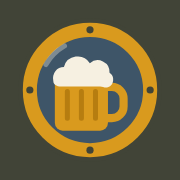
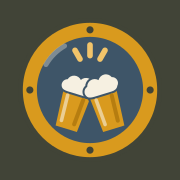
Nyt mærke: to glas, der skåler, i koøjet
Koøjet (olive skrog, messingring, havneblåt glas) bevares; ølkruset er
erstattet af to pintglas, der klinker, med skum og gnister (D-162).
Samme tegning i LogoMark, icon.svg og apple-icon.png.

diff --git a/src/components/brand/logo.tsx b/src/components/brand/logo.tsx
@@ -1,7 +1,7 @@
 import { cn } from "@/lib/utils";
 
 /*
- * Ølklubbens mærke: et koøje (porthole) med en ølkrus bag glasset.
+ * Ølklubbens mærke: et koøje (porthole) med to ølglas, der skåler, bag glasset.
  * Maritimt krydderi, ikke pirat (SPEC §13.1). Samme tegning ligger i src/app/icon.svg.
  */
 type LogoMarkProps = {
@@ -40,26 +40,36 @@ export function LogoMark({ className, title }: LogoMarkProps) {
         strokeWidth="1.6"
         strokeLinecap="round"
       />
-      {/* krus med skum */}
-      <g transform="translate(-1.75 0.5)">
-        <path
-          d="M30.5 22.5h2.25a3.75 3.75 0 0 1 3.75 3.75v2.5a3.75 3.75 0 0 1-3.75 3.75H30.5"
-          fill="none"
-          stroke="#D99A1E"
-          strokeWidth="2.6"
-        />
-        <rect x="14.5" y="19" width="17" height="17.5" rx="2.5" fill="#D99A1E" />
-        <path
-          d="M18.5 24v8.5M23 24v8.5M27.5 24v8.5"
-          stroke="#B67D10"
-          strokeWidth="1.6"
-          strokeLinecap="round"
-        />
-        <path
-          d="M14 20.5a3.6 3.6 0 0 1 3.4-4.4 4.6 4.6 0 0 1 8.3-1.2 3.8 3.8 0 0 1 6.3 3.1 2.6 2.6 0 0 1-.5 4.6c-.9.4-1.6-.2-2.5-.2H17.2c-1.6 0-3.2-.3-3.2-1.9Z"
-          fill="#F6F0E1"
-        />
-      </g>
+      {/* skål: gnister og to glas, der klinker (et omrids i glassets blå skiller dem) */}
+      <path
+        d="M24 9.6v3.4M19.2 11.3l1.6 2.8M28.8 11.3l-1.6 2.8"
+        fill="none"
+        stroke="#F2C46A"
+        strokeWidth="1.8"
+        strokeLinecap="round"
+      />
+      {[
+        { x: 16.4, r: 17 },
+        { x: 31.6, r: -17 },
+      ].map(({ x, r }) => (
+        <g key={x} transform={`translate(${x} 36.4) rotate(${r})`}>
+          <g stroke="#3E5568" strokeWidth="1.3" strokeLinejoin="round" paintOrder="stroke">
+            <path d="M-4.6 -13.2h9.2l-1.05 13.2h-7.1Z" fill="#D99A1E" />
+            <path
+              d="M-5.1 -12.2a1.9 1.9 0 0 1 .9-3.1 2.4 2.4 0 0 1 4.1-1 2.4 2.4 0 0 1 4.3.3 1.9 1.9 0 0 1 .9 3.2c-.4.9-1.3 1.2-2.2 1.2h-5.9c-1 0-1.8-.2-2.1-.6Z"
+              fill="#F6F0E1"
+            />
+          </g>
+          <path
+            d="M-2.7 -10.4l.45 8.3"
+            stroke="#F6F0E1"
+            strokeOpacity=".6"
+            strokeWidth="1.15"
+            strokeLinecap="round"
+          />
+          <path d="M2.5 -10.4l-.5 8.3" stroke="#B67D10" strokeWidth="1.3" strokeLinecap="round" />
+        </g>
+      ))}
     </svg>
   );
 }

diff --git a/SPEC.md b/SPEC.md
@@ -2008,6 +2008,7 @@ Organiseret efter implementeringsrunderne i §16.3 (D-020).
 | – | – | Log ud i sidebaren (§8.1, D-159) | ✅ | 2026-10-24. 1 E2E (`sidebar-logout.spec.ts`, kun desktop). `profile`, `session` og `login-suggestions` grønne med den rettede `logOut()`. |
 | – | – | /simplify af dagens fire komponenter (D-160) | ✅ | 2026-10-24. 12 review-agenter (genbrug, forenkling, effektivitet, højde × PDF-import, billede af øllen, emailforslag) + Log ud gennemgået direkte. Rettet: fælles `sourceKeyOf`/`SOURCE_KEY_MAX_LENGTH` og `chordBankDraft` i `src/server/domain/songs/chordbank/` (CLI og app deler kernen), tidlig skrifttjek før ChordBank-parsen, `plainText` én gang pr. linje, skriftfamilie pr. `setFont`, validering memoiseret pr. sang i gennemsynet, fælles `SONGS_FORBIDDEN_MESSAGE` og "for stor"-tekst, døde re-exports og `PdfReadError.reason` fjernet; billedet behandles først efter dublettjekket, én `sharp`-instans, kortene henter en 112 px miniature (`?size=thumb`, laves i ruten) i stedet for hele billedet, browseren skalerer til 1200 px, `checkboxSchema` genbrugt, `BeerPhoto` (én `<img>`-undtagelse), `beerImageHref` tager `null`, fælles `imageVersionSelect`; ny `useAfterServerAnswer` i formularmotoren bruges af billedfeltet, F-053-eventvalget og `useCheckedAfterReset`; emailforslag via `emailSchema`, modul-cache + `storage`-event, `onValidSubmit` i `useActionForm`, `AuthField.suggestions`, chips som `Button` (44 px på touch) med revalidering. Sprunget over: sammensat PK/`content_type`-kolonne i `beer_images` (migreringen er allerede pushet), global `bodySizeLimit` (PDF-læsning i browseren eller egen Route Handler er en større ændring), klientens `importHash` (kun admins, harmløst), `Item` som discriminated union. Gates: `npm run check` (1108 unit), `npm run test:integration` (343), app mod CLI på de 59 PDF'er uændret (57 identiske), E2E for de berørte områder 37/37. |
 | – | – | `fallow audit` af dagens ændringer (D-161) | ✅ | 2026-10-24. `npx fallow@3.35.0 audit --base 5055a15`: **fail → warn**. Rettet: `.fallowrc.json` med integrationstestene som entry points (fallow læser ikke `vitest.integration.config.mts`; alle `*.itest.ts` stod som ubrugte), ubrugt eksport (`SOURCE_KEY_PREFIXES`), duplikeret admin-guard (`requireSongAdminPage` i `src/server/songs/access.ts`) og øl-opslag (`requireBeer` genbrugt i `actions/beers.ts`), `test.skip` i `sidebar-logout.spec.ts` (mobil tjekker nu, at Log ud ikke er i bundmenuen), `readPdfRuns` (cyclomatic 46) delt i `TextState`, operator-tabel, `measure`, `appendRun` og `pageRuns` uden `eslint-disable`, `importSongs`/`readSongPdfAction` delt i hjælpere, importsiden delt i `use-song-pdf-import.ts`, `song-import-row.tsx` (Item som discriminated union) og `ImportFooter`/`PdfDropzone`, `AuthField`s datalist i `Suggestions`. Tilbage (advarsler): 17 CRAP-fund, der kun skyldes manglende coverage-data (cyclomatic ≥ 5 → CRAP ≥ 30; rå V8-coverage fra vitest kan fallow ikke koble til kilden), 6 Tailwind-værdier på flyttede linjer, `eslint-disable` i `BeerPhoto` (den ene begrundede `<img>`), og ældre fund uden for dagens ændringer (4 ubrugte UI-filer, 7 ubrugte eksporter). App mod CLI på de 59 PDF'er uændret (57 identiske). |
+| – | – | Nyt mærke: to glas, der skåler, i koøjet (D-162) | ✅ | 2026-10-25. `LogoMark`, `icon.svg`, `apple-icon.png`. Tjekket ved 384, 64, 32 og 16 px og i sammenhæng på login (lg) og i sidebaren. |
 
 ## 19.3 Beslutningslog
 
@@ -2176,6 +2177,7 @@ Korte arkitektur- og produktbeslutninger. Nyeste nederst.
 | D-159 | 2026-10-24 | "Log ud" står i desktop-sidebaren under brugerrækken (Jesper: "så man ikke skal gå til profil for at logge ud"). Samme `LogoutButton` som på Profil (variant `sidebar`: en række i sidebarens stil med `LogOutIcon` på avatarens plads). Mobilens bundmenu er uændret; Log ud er stadig på Profil. E2E-hjælperen `logOut()` klikker knappen i `<main>`, da Profil på desktop nu har to. | Ét klik i stedet for to, uden at give log ud en plads i hovedmenuen. | – |
 | D-160 | 2026-10-24 | Oprydning efter /simplify (Jesper: "use /simplify on all the isolated components"). Ændret adfærd: (a) øl-billedet behandles først, når dublettjekket er bestået: har navnet en dublet og filen er ulæselig, vises dublet-advarslen først og billedfejlen efter "Tilføj alligevel"; (b) kortene i kataloget og på eventsiden henter `?size=thumb` (112 × 112 WebP, beskåret til midten, lavet med `sharp` i ruten og cachet privat i et år) i stedet for hele billedet; (c) browseren skalerer til 1200 px (det, serveren gemmer). Mekanisme: `useAfterServerAnswer(actionState, restore)` i `src/components/features/forms/` er den ene måde at genoprette en kontrol efter Reacts form-reset (F-053, TG-037: aldrig ved mount); `useActionForm` fik `onValidSubmit`. Resten er uden adfærdsændring (se §19.2). | Én mekanisme i stedet for tre, og en liste med 30 øl henter ca. 30 × 4 KB i stedet for 30 × 150 KB. | – |
 | D-161 | 2026-10-24 | `.fallowrc.json` (fallow 3.35) med kun `entry` for `tests/integration/**/*.itest.ts` og `tests/integration/global-setup.ts`; ellers fallows standarder. `fallow audit --base <før ændringen>` bruges som kvalitetstjek af en ændring (Jesper: "see if anything there can be improved with the fallow audit command"); CRAP-fund uden coverage-data er advarsler, ikke fejl at jagte. | Uden entry-mønstret melder fallow alle integrationstests som ubrugte filer, så hver ny itest fejler auditten. | – |
+| D-162 | 2026-10-25 | Nyt mærke (Jesper sendte et ikon med to ølglas, der skåler: "mere som det her, men med den identitet, der allerede er"). Koøjet bevares (olive skrog, messingring med fire bolte, havneblåt glas med refleks); ølkruset er erstattet af to pintglas, der klinker (±17°), med skum og tre gnister i `--amber-light`. Et omrids i glassets blå skiller glassene, hvor de rører hinanden, så de også læses ved 32 px. Samme tegning i `src/components/brand/logo.tsx` (`LogoMark`), `src/app/icon.svg` og `src/app/apple-icon.png` (180 px, genereret fra SVG'en med `sharp`). | Skål er klubbens øjeblik; koøjet og farverne er det, man allerede genkender appen på (§13.1, §13.2). | – |
 
 ## 19.4 Fejl og rettelser (implementeringslog)
 
